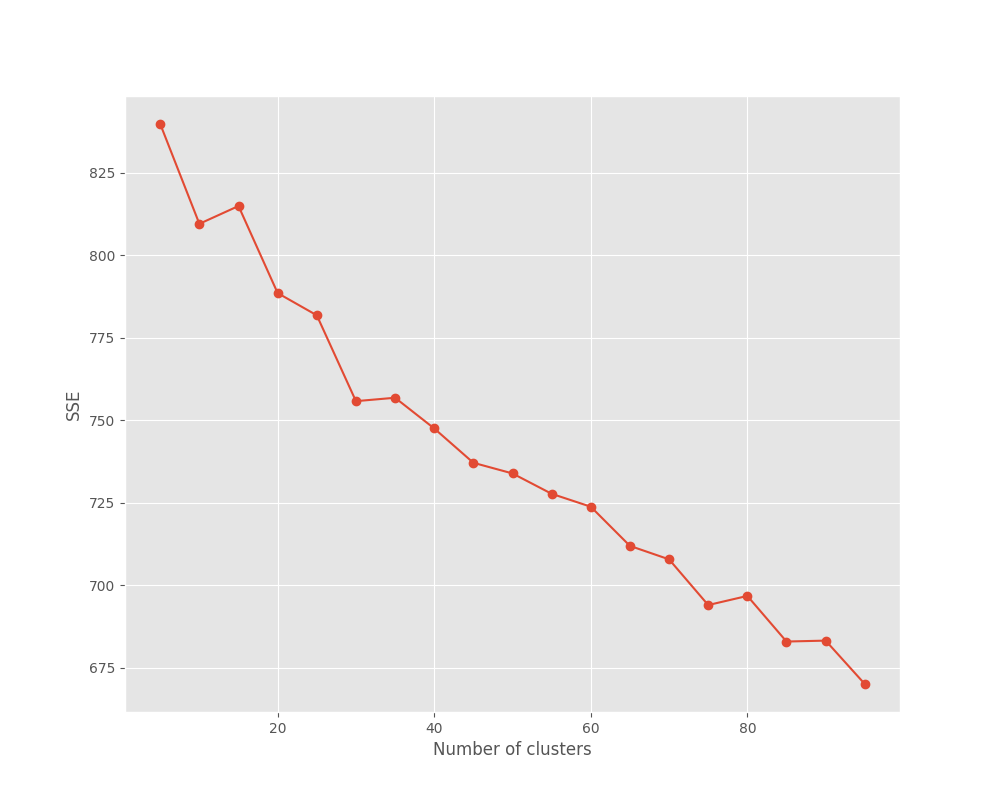
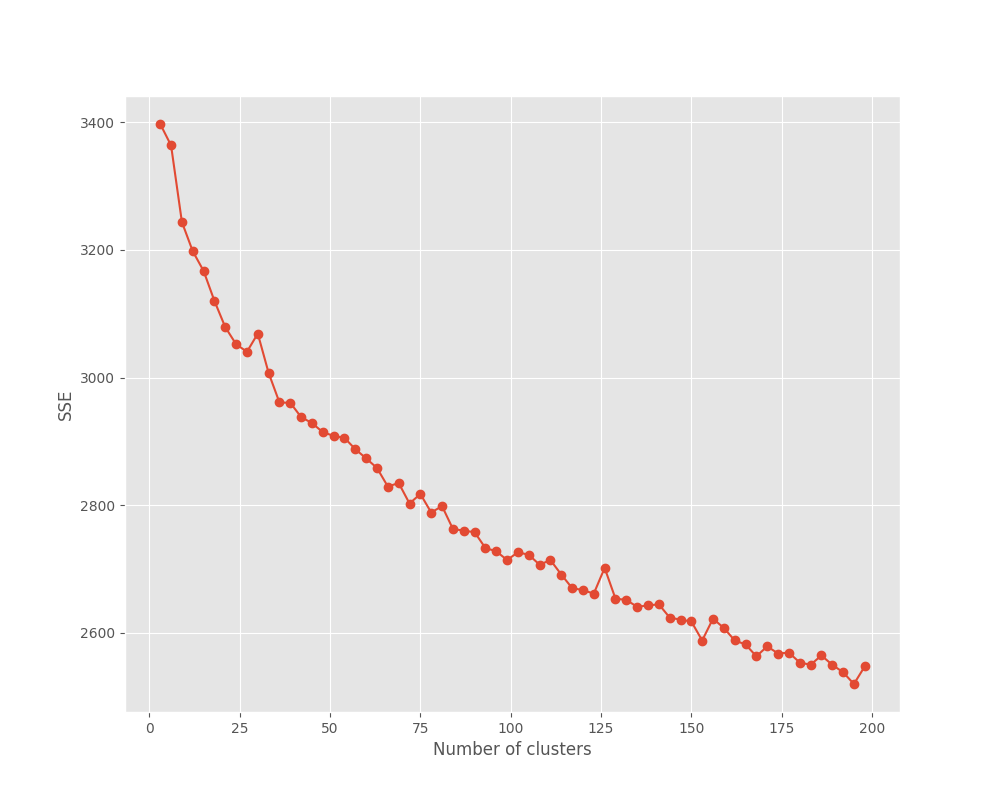
init

diff --git a/main.py b/main.py
@@ -9,7 +9,7 @@ import pandas as pd
 from k_means_clustering import KMeansClustering
 
 
-def get_preprocessed_data(tweet_cnt, file="data/goodhealth.txt"):
+def get_preprocessed_data(tweet_cnt, file="data/bbchealth.txt"):
     lines = []
     if tweet_cnt != 0:
         for file in os.listdir("data/"):
@@ -63,9 +63,11 @@ if __name__ == '__main__':
     tweets = get_preprocessed_data(tweet_cnt=args.data_size)
     # Experiments
     results = []
-    for k in range(5, args.max_k, 5):
+    for k in range(3, args.max_k, 3):
         print(f"Running k-means clustering with {k} clusters")
-        results.append((k, KMeansClustering(k).train(tweets)))
+        kmeans = KMeansClustering(k)
+        results.append((k, kmeans.train(tweets)))
+        kmeans.print_clusters()
         print()
     # Create the plot
     plt.rcParams['figure.figsize'] = [10, 8]
@@ -75,4 +77,4 @@ if __name__ == '__main__':
     plt.ylabel("SSE")
     plt.savefig("results/k_means_elbow.png")
     # Save results
-    pd.DataFrame(results, columns=["k", "SSE"]).to_csv("results/k_means_elbow.csv", index=False)
+    pd.DataFrame(results, columns=["k", "SSE"]).to_csv("results/k_means.csv", index=False)

diff --git a/k_means_clustering.py b/k_means_clustering.py
@@ -73,3 +73,7 @@ class KMeansClustering:
         intersection = set(t1).intersection(t2)
         union = set().union(t1, t2)
         return 1 - (len(intersection) / len(union))
+
+    def print_clusters(self):
+        for cluster_id in self.clusters:
+            print(f"Cluster {cluster_id} Length: {len(self.clusters[cluster_id][1])}")
